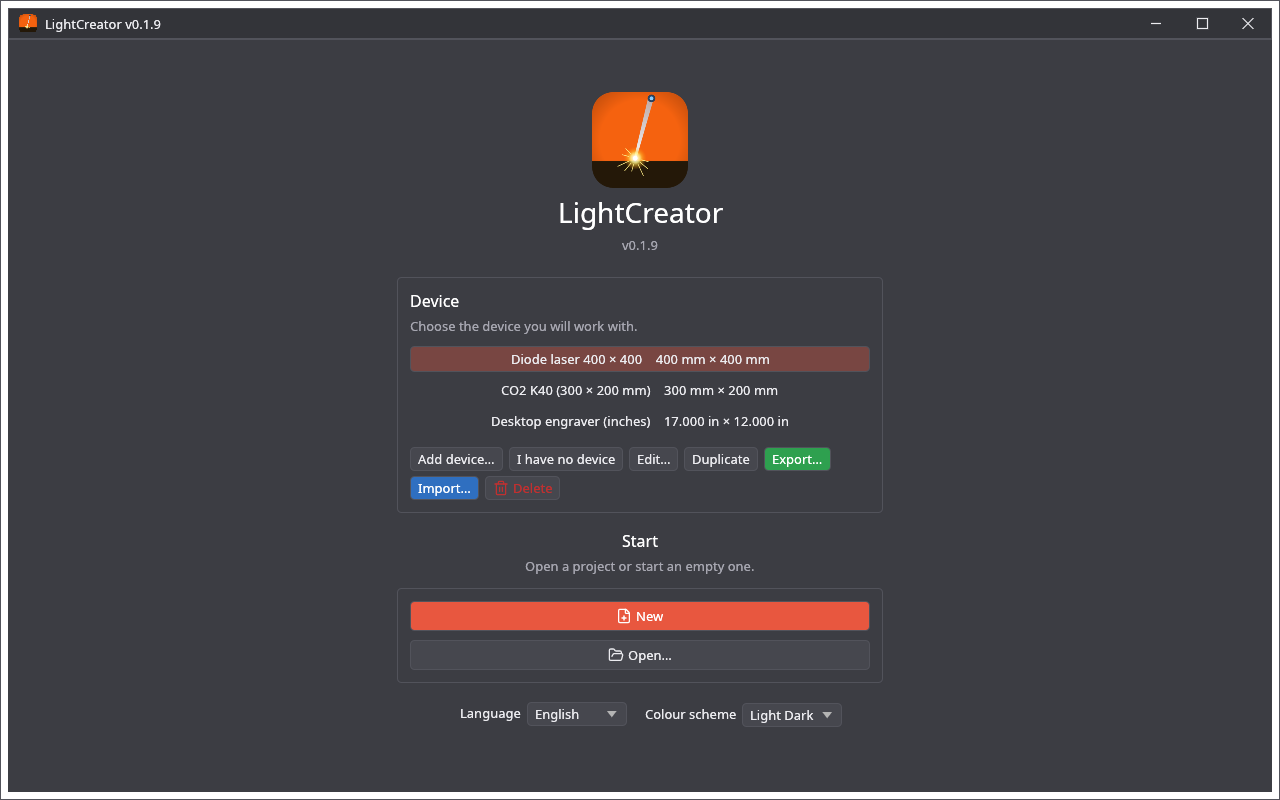
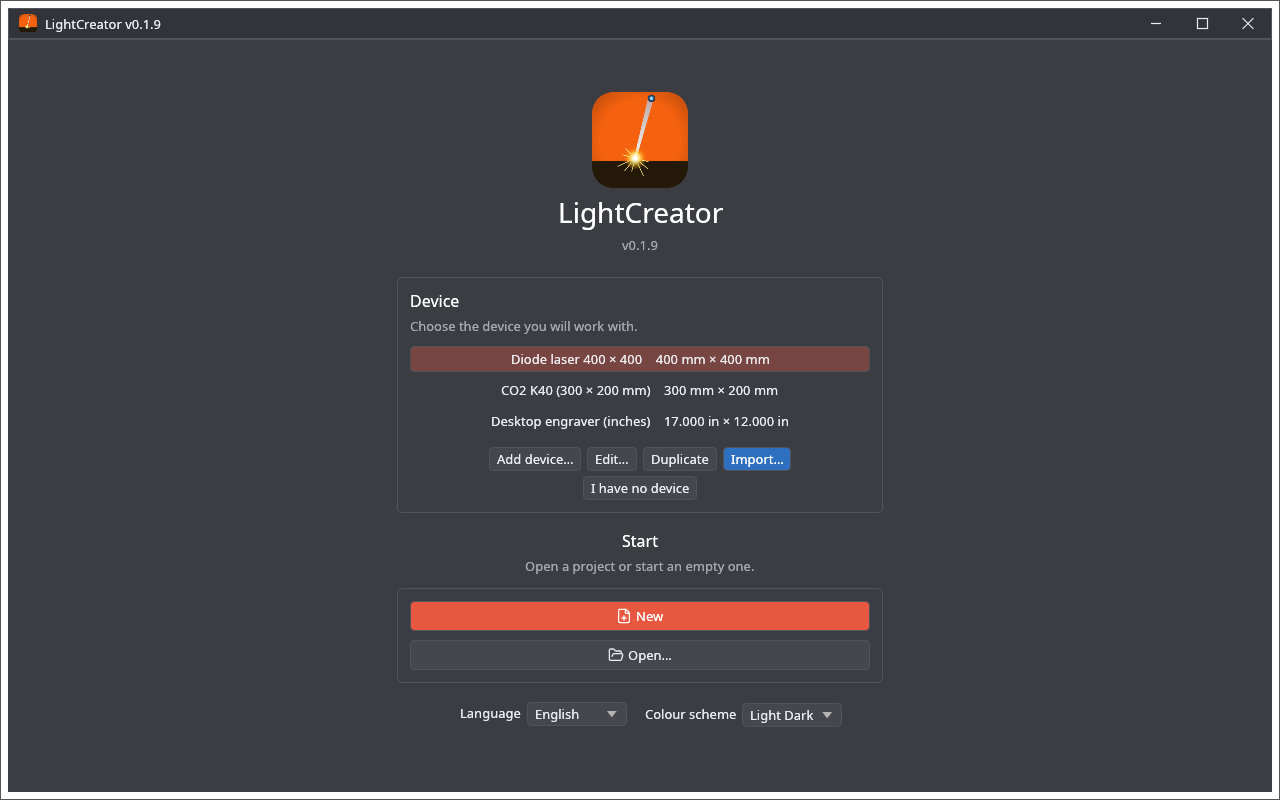
Start screen, device section: Add, Edit, Duplicate, Import in the first row and I have no device in the second, centred; Export and Delete move into the Edit window
Needs baseCreator v0.8.1 (widgets::centered_row).

Changed region(s): [[0.3125, 0.5625, 0.6562, 0.625]]

diff --git a/crates/lightcreator/src/device_ui.rs b/crates/lightcreator/src/device_ui.rs
@@ -229,6 +229,7 @@ impl App {
     }
 
     pub fn open_cfg_edit(&mut self, idx: usize) {
+        self.confirm_delete = false;
         if let Some(d) = self.profiles.get(idx) {
             self.cfg = Some(CfgEdit { idx: Some(idx), draft: d.clone(), page: CfgPage::General, head: 0 });
         }
@@ -321,12 +322,9 @@ impl App {
         });
         ui.add_space(8.0);
         let has = !self.profiles.is_empty();
-        ui.horizontal_wrapped(|ui| {
+        base_ui::widgets::centered_row(ui, "device_buttons_1", |ui| {
             if ui.button(tr("Add device…")).clicked() {
                 self.start_add_device();
-            }
-            if ui.button(tr("I have no device")).on_hover_text(tr("Work on a project without a machine: a plain device called Dummy, with the default work area and speeds")).clicked() {
-                self.use_dummy_device();
             }
             if ui.add_enabled(has, egui::Button::new(tr("Edit…"))).clicked() {
                 self.open_cfg_edit(self.start_sel);
@@ -334,23 +332,13 @@ impl App {
             if ui.add_enabled(has, egui::Button::new(tr("Duplicate"))).on_hover_text(tr("A copy of this profile")).clicked() {
                 self.duplicate_profile(self.start_sel);
             }
-            if crate::window_ui::save_button_enabled(ui, has, &tr("Export…")).on_hover_text(tr("Save this profile to a file")).clicked() {
-                self.export_profile_dialog(self.start_sel);
-            }
             if crate::window_ui::import_button(ui, &tr("Import…")).on_hover_text(tr("Read a profile from a file")).clicked() {
                 self.import_profile_dialog();
             }
-            if self.confirm_delete && has {
-                if crate::window_ui::delete_button(ui, &tr("Confirm delete")).clicked() {
-                    self.profiles.remove(self.start_sel);
-                    self.confirm_delete = false;
-                    self.active = 0;
-                }
-                if ui.button(tr("Cancel")).clicked() {
-                    self.confirm_delete = false;
-                }
-            } else if crate::window_ui::delete_button_enabled(ui, has, &tr("Delete")).clicked() {
-                self.confirm_delete = true;
+        });
+        base_ui::widgets::centered_row(ui, "device_buttons_2", |ui| {
+            if ui.button(tr("I have no device")).on_hover_text(tr("Work on a project without a machine: a plain device called Dummy, with the default work area and speeds")).clicked() {
+                self.use_dummy_device();
             }
         });
     }
@@ -370,6 +358,11 @@ impl App {
         }
         let Some(mut cfg) = self.cfg.take() else { return };
         let must_create = false;
+        let mut export = false;
+        let mut ask_delete = false;
+        let mut delete = false;
+        let confirm = self.confirm_delete;
+        let on_start = self.screen == Screen::Start;
         let title = if cfg.idx.is_some() { tr("Device configuration") } else { tr("New device") };
         let mut save = false;
         let mut cancel = false;
@@ -1130,10 +1123,40 @@ impl App {
                 if !must_create && ui.button(tr("Cancel")).clicked() {
                     cancel = true;
                 }
+                if cfg.idx.is_some() {
+                    ui.separator();
+                    if crate::window_ui::save_button_enabled(ui, true, &tr("Export…")).on_hover_text(tr("Save this profile to a file")).clicked() {
+                        export = true;
+                    }
+                    if on_start {
+                        if confirm {
+                            if crate::window_ui::delete_button(ui, &tr("Confirm delete")).clicked() {
+                                delete = true;
+                            }
+                        } else if crate::window_ui::delete_button(ui, &tr("Delete")).clicked() {
+                            ask_delete = true;
+                        }
+                    }
+                }
             });
         });
         if let Some(cam) = test_cam {
             self.start_cam_test(ctx, cam);
+        }
+        if let Some(i) = cfg.idx {
+            if export {
+                self.export_profile_dialog(i);
+            }
+            if ask_delete {
+                self.confirm_delete = true;
+            }
+            if delete && i < self.profiles.len() {
+                self.profiles.remove(i);
+                self.confirm_delete = false;
+                self.active = if self.active > i { self.active - 1 } else if self.active == i { 0 } else { self.active };
+                self.start_sel = self.start_sel.min(self.profiles.len().saturating_sub(1));
+                return;
+            }
         }
         if !cfg_open && !must_create {
             cancel = true;

diff --git a/docs/wiki/Urzadzenia-i-sterowniki.md b/docs/wiki/Urzadzenia-i-sterowniki.md
@@ -47,7 +47,7 @@ Strona **Laser** wymienia głowice lasera maszyny (co najmniej jedna). Głowica 
 * **Strefy zakazane z Z:** z osią Z strefę można ograniczyć do zakresu wysokości (jak pudełko lub walec stojący na stole); ruch na wysokości poza zakresem jest wolny. Warstwy bez ustawionego Z są traktowane jak na każdej wysokości.
 
 ## Profile urządzeń
-Ekran startowy (taki sam jak w MillCreatorze i PenCreatorze) ma u góry listę urządzeń z przyciskami **Dodaj urządzenie…**, **Nie mam urządzenia**, **Edytuj…**, **Powiel**, **Eksportuj…**, **Importuj…** i **Usuń**, a pod nią **Nowy**, **Otwórz…** i ostatnie pliki. Wybrane urządzenie to to, dla którego powstaje projekt: **Nowy** i **Otwórz…** zaczynają projekt z nim, a bez żadnego urządzenia tworzą i używają Dummy (patrz *Brak urządzenia* niżej). Wybrany profil jest zapamiętywany. Profil zawiera sterownik, typ lasera (dioda lub CO2), jednostki (mm lub cale; geometria jest zawsze przechowywana w mm), jednostki prędkości (na sekundę lub na minutę, przeliczane automatycznie; G-code zawsze niesie posuw w mm/min po `G21`), domyślną prędkość każdej warstwy, pole robocze, zero maszyny, maks. wartość S, prędkość jałową, prędkość transmisji, port, krok i posuw ręcznego przesuwania, moc obrysu i wyrównanie kamery. Okno konfiguracji ma zmienny rozmiar i listę stron po lewej: **General** (nazwa, sterownik, jednostki, prędkości, przesuw), **Hardware** (pole robocze, zero maszyny), **Laser** (typ lasera, maks. S, moc obrysu), **G-code**, **Connection** (szeregowe lub TCP; tylko dla sterowników z połączeniem na żywo) i **Camera**. Profile zapisane przez wcześniejsze wersje są wczytywane bez zmian; ustawienia lasera są na liście głowic (na razie jedna). Edytor wymaga co najmniej jednego profilu.
+Ekran startowy (taki sam jak w MillCreatorze i PenCreatorze) ma u góry listę urządzeń z przyciskami **Dodaj urządzenie…**, **Edytuj…**, **Powiel**, **Importuj…** i w drugim rzędzie **Nie mam urządzenia** (**Eksportuj…** i **Usuń** są w oknie **Edytuj…**), a pod nią **Nowy**, **Otwórz…** i ostatnie pliki. Wybrane urządzenie to to, dla którego powstaje projekt: **Nowy** i **Otwórz…** zaczynają projekt z nim, a bez żadnego urządzenia tworzą i używają Dummy (patrz *Brak urządzenia* niżej). Wybrany profil jest zapamiętywany. Profil zawiera sterownik, typ lasera (dioda lub CO2), jednostki (mm lub cale; geometria jest zawsze przechowywana w mm), jednostki prędkości (na sekundę lub na minutę, przeliczane automatycznie; G-code zawsze niesie posuw w mm/min po `G21`), domyślną prędkość każdej warstwy, pole robocze, zero maszyny, maks. wartość S, prędkość jałową, prędkość transmisji, port, krok i posuw ręcznego przesuwania, moc obrysu i wyrównanie kamery. Okno konfiguracji ma zmienny rozmiar i listę stron po lewej: **General** (nazwa, sterownik, jednostki, prędkości, przesuw), **Hardware** (pole robocze, zero maszyny), **Laser** (typ lasera, maks. S, moc obrysu), **G-code**, **Connection** (szeregowe lub TCP; tylko dla sterowników z połączeniem na żywo) i **Camera**. Profile zapisane przez wcześniejsze wersje są wczytywane bez zmian; ustawienia lasera są na liście głowic (na razie jedna). Edytor wymaga co najmniej jednego profilu.
 
 **Dodawanie urządzenia.** Nic nie jest predefiniowane (żadnych gotowych profili ani kreatora). *Dodaj urządzenie…* na ekranie startowym otwiera **jedno okno** z podstawowymi ustawieniami z okna urządzenia: nazwa, sterownik, połączenie (typ, port i niebieski przycisk *Read from device*), jednostki, jednostki prędkości, pole robocze (X i Y w jednej linii), zero maszyny, S max, typ lasera i opcjonalnie kamera, z listą tego, co warto sprawdzić. Urządzenie dostaje materiał domyślny i kilka materiałów startowych dla swojego typu lasera. *Więcej ustawień…* otwiera całe okno urządzenia z wpisanymi danymi. Profil można **powielić**, **wyeksportować** i **zaimportować** (plik JSON z wersją formatu; import jest ściśle sprawdzany, nowszy format jest odrzucany, a port szeregowy nigdy nie jest brany z pliku).
 

diff --git a/docs/wiki/Devices-and-Controllers.md b/docs/wiki/Devices-and-Controllers.md
@@ -47,7 +47,7 @@ The **Laser** page lists the laser heads of the machine (at least one). A head h
 * **No-go zones with Z:** with a Z axis a zone can be limited to a range of heights (like a box or a cylinder standing on the table); a move at a height outside the range is free. Layers that do not set Z are treated as being at every height.
 
 ## Device profiles
-The start screen (the same as in MillCreator and PenCreator) has the list of devices on top, with **Add device…**, **I have no device**, **Edit…**, **Duplicate**, **Export…**, **Import…** and **Delete**, and below it **New**, **Open…** and the recent files. The selected device is the one the project is made for: **New** and **Open…** start the project with it, and without any device they make and use the Dummy (see *No device* below). The selected profile is remembered. A profile holds controller, laser type (diode or CO2), units (mm or inches; geometry is always stored in mm), speed units (per second or per minute, converted automatically; the G-code always carries the mm/min feed after `G21`), the default speed of each layer, work area, machine zero, S-value max, travel speed, baud rate, port, jog step and feed, frame power and camera alignment. The configuration window is a resizable window with a list of pages on the left: **General** (name, controller, units, speeds, jog), **Hardware** (work area, machine zero), **Laser** (laser type, S-value max, frame power), **G-code**, **Connection** (serial or TCP; only for controllers with a live link) and **Camera**. Profiles saved by earlier versions are read as they are; the laser settings live in a list of laser heads (one for now). A project always has a device: the one selected on the start screen, or the Dummy.
+The start screen (the same as in MillCreator and PenCreator) has the list of devices on top, with **Add device…**, **Edit…**, **Duplicate**, **Import…** and, in a second row, **I have no device** (**Export…** and **Delete** are in the window of **Edit…**), and below it **New**, **Open…** and the recent files. The selected device is the one the project is made for: **New** and **Open…** start the project with it, and without any device they make and use the Dummy (see *No device* below). The selected profile is remembered. A profile holds controller, laser type (diode or CO2), units (mm or inches; geometry is always stored in mm), speed units (per second or per minute, converted automatically; the G-code always carries the mm/min feed after `G21`), the default speed of each layer, work area, machine zero, S-value max, travel speed, baud rate, port, jog step and feed, frame power and camera alignment. The configuration window is a resizable window with a list of pages on the left: **General** (name, controller, units, speeds, jog), **Hardware** (work area, machine zero), **Laser** (laser type, S-value max, frame power), **G-code**, **Connection** (serial or TCP; only for controllers with a live link) and **Camera**. Profiles saved by earlier versions are read as they are; the laser settings live in a list of laser heads (one for now). A project always has a device: the one selected on the start screen, or the Dummy.
 
 **Adding a device.** Nothing is predefined (no ready-made profiles, no wizard). *Add device…* on the start screen opens **one window** with the basic settings of the device window: name, controller, connection (type, port and a blue *Read from device* button), units, speed units, work area (X and Y on one line), machine zero, S-value max, laser type and, optionally, a camera, with a list of what is worth checking. The device gets the default material and a few starting materials for its laser type. *More settings…* opens the whole device window with what is entered. A profile can be **duplicated**, **exported** and **imported** (a JSON file with a format version; the import is validated strictly, a newer format is refused, and the serial port is never taken from the file).
 
